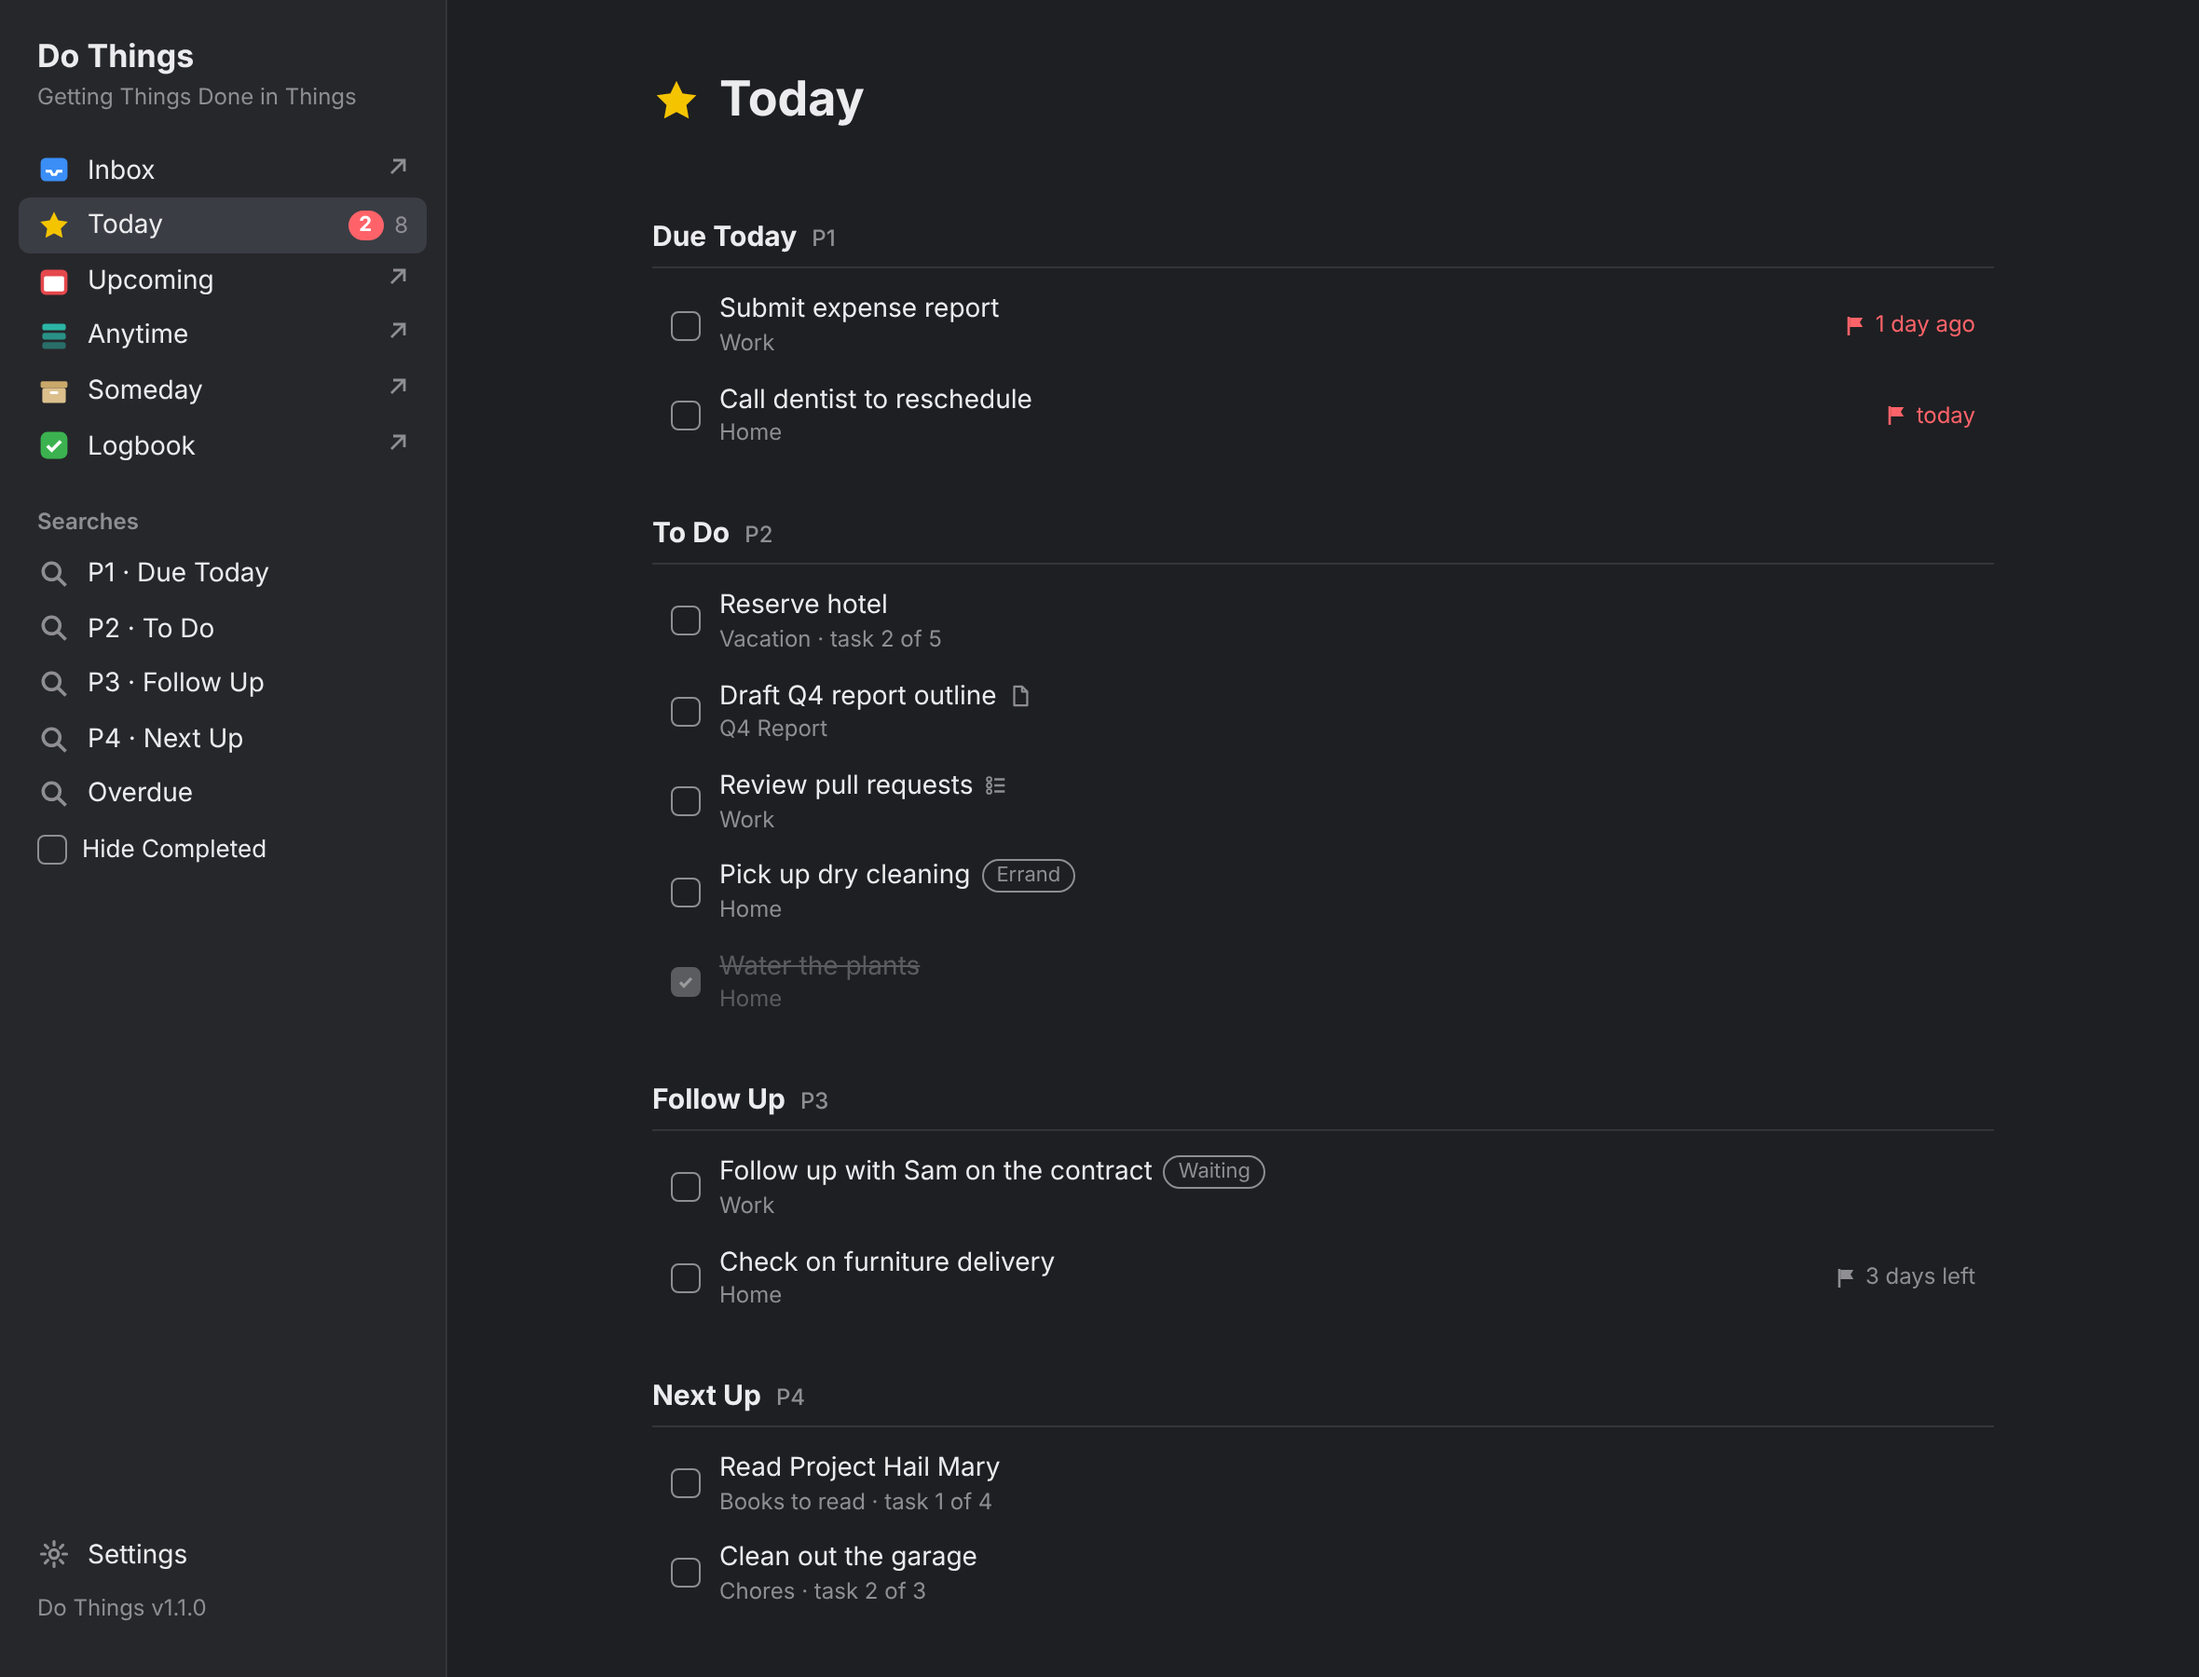
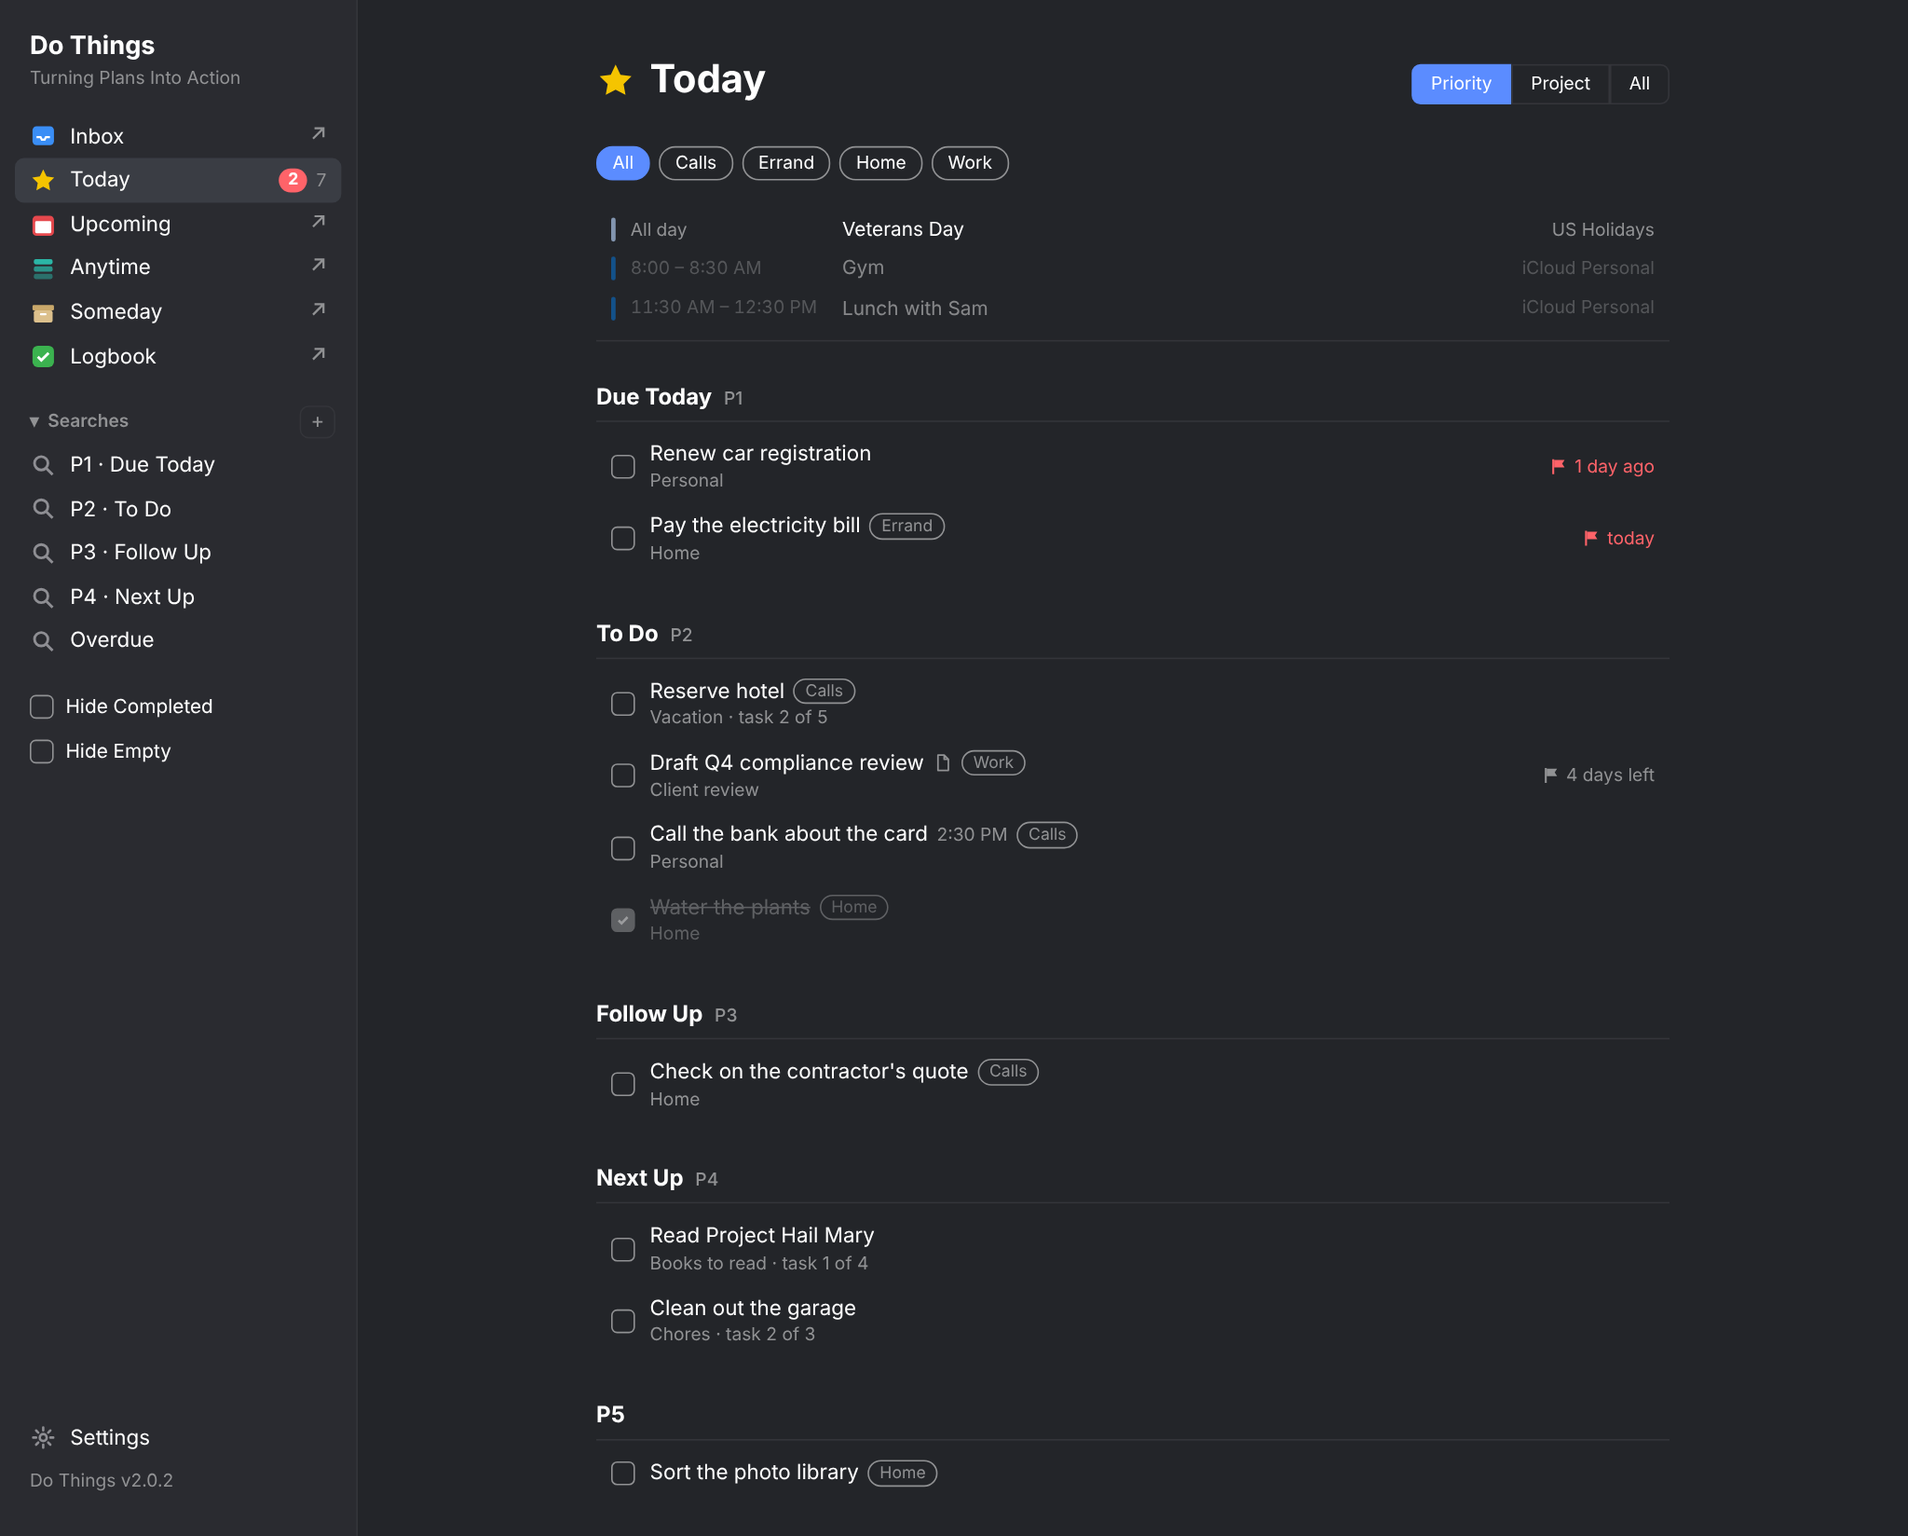
v2.0.2: README as an adjunct to Things, with every advantage up front
Version 2.0.2.

User-visible behavior: none in the app. The README now opens by stating
that Do Things is an adjunct to Things 3, not a replacement; "Advantages over
Things" moves up, right after "Why this exists", and covers every advantage
(priorities, the automatic priority rules, reprioritizing by drag, Today by
project, saved orders per view, sequential projects with Reset other tasks,
saved searches, due tasks always in Today, priority pills), notes what Do
Things matches rather than adds, and lists what stays in Things. "What it
does" is reorganized and current: the Priority / Project / All views, the
tag bar, Hide Completed and Hide Empty, rules, moves, sequential projects,
searches, calendar events, editing and display. New screenshots of Today by
priority (switch, tag bar, events, sequential and Next Up tasks) and by
project (screenshots/today-project.png). Limitations add the No project
drop limit and the undocumented sidebar order; section 5 mentions the
sidebar order printed by debug_things.py.

Safety impact: none (documentation, screenshots and version metadata only).

Verification: 324 unit tests pass on Python 3.9; py_compile, pyflakes and
git diff --check clean. Screenshots taken with headless Chrome from v2.0.2
running against a mock Things database with sample data and checked by eye.

diff --git a/index.html b/index.html
@@ -3,9 +3,10 @@
   Do Things page. Served by serve.py; all rules and data live on the server,
   this page only renders lists and sends actions.
 
-  Version: 2.0.1
+  Version: 2.0.2
 
   Change log:
+  - v2.0.2 (2026-11-10): Synchronized module version metadata.
   - v2.0.1 (2026-11-10): Project view headers show only the project or area
     name (the server sends no gray note for them).
   - v2.0.0 (2026-11-10): Today's Priority / Project / All switch beside the

diff --git a/view_check.py b/view_check.py
@@ -6,9 +6,10 @@ dragging in that view, lists the tags for the tag bar and filters by the
 chosen tag, says where a task appears in a view (the edit preview), and works
 out a group's full order after a drop seen through the tag filter.
 
-Version: 2.0.1
+Version: 2.0.2
 
 Change log:
+- v2.0.2 (2026-11-10): Synchronized module version metadata.
 - v2.0.1 (2026-11-10): Project view headers show only the project or area
   name (no gray "Project", "Area" or area name after it).
 - v2.0.0 (2026-11-10): New. Priority, Project and All views of Today and the

diff --git a/debug_things.py b/debug_things.py
@@ -9,9 +9,10 @@ and each Today task's reminder time as stored by Things and as Do Things reads i
 and Things' projects and areas in the sidebar order Today's Project view uses.
 It never writes to Things or to any Do Things file.
 
-Version: 2.0.1
+Version: 2.0.2
 
 Change log:
+- v2.0.2 (2026-11-10): Synchronized module version metadata.
 - v2.0.1 (2026-11-10): Synchronized module version metadata.
 - v2.0.0 (2026-11-10): Prints Things' projects and areas in sidebar order
   (Today's Project view group order), to compare with Things' sidebar.

diff --git a/priority_check.py b/priority_check.py
@@ -9,9 +9,10 @@ display. It also decides which priority a sequential project's tasks get
 starts next, and validates the user's settings (priority names, options,
 sequential-project tags and calendar events).
 
-Version: 2.0.1
+Version: 2.0.2
 
 Change log:
+- v2.0.2 (2026-11-10): Synchronized module version metadata.
 - v2.0.1 (2026-11-10): Synchronized module version metadata.
 - v2.0.0 (2026-11-10): Saved orders for Today's views: ALL_ORDER_KEY and
   PROJECT_ORDER_PREFIX keys, is_order_key; prune_order keeps them (dropping

diff --git a/debug_calendar.py b/debug_calendar.py
@@ -12,9 +12,10 @@ answer is a macOS setting, not a change to any calendar). Nothing is written
 to Calendar, Things or any Do Things file. --hide-titles replaces event
 titles with "(title hidden)", for sharing the output.
 
-Version: 2.0.1
+Version: 2.0.2
 
 Change log:
+- v2.0.2 (2026-11-10): Synchronized module version metadata.
 - v2.0.1 (2026-11-10): Synchronized module version metadata.
 - v2.0.0 (2026-11-10): Synchronized module version metadata.
 - v1.9.2 (2026-11-10): Synchronized module version metadata.

diff --git a/common.py b/common.py
@@ -6,9 +6,10 @@ the read-only calendar script (today's events from macOS Calendar), the local
 task-order file, the user's settings and saved-search files and the auth
 token.
 
-Version: 2.0.1
+Version: 2.0.2
 
 Change log:
+- v2.0.2 (2026-11-10): Synchronized module version metadata.
 - v2.0.1 (2026-11-10): Synchronized module version metadata.
 - v2.0.0 (2026-11-10): read_sidebar reads Things' open projects and its areas in
   sidebar order (Today's Project view); load_order keeps the All and Project

diff --git a/search_check.py b/search_check.py
@@ -8,9 +8,10 @@ the `Search` model, the default searches, validation of searches.json and of
 the builder's input, matching, result order, the summary line under a
 search's title, and new search ids.
 
-Version: 2.0.1
+Version: 2.0.2
 
 Change log:
+- v2.0.2 (2026-11-10): Synchronized module version metadata.
 - v2.0.1 (2026-11-10): Synchronized module version metadata.
 - v2.0.0 (2026-11-10): Synchronized module version metadata.
 - v1.9.2 (2026-11-10): Synchronized module version metadata.

diff --git a/test_serve.py b/test_serve.py
@@ -3,9 +3,10 @@
 Uses a mock Things database (schema from test_common.py). Things itself and
 the auth token are replaced with mocks, so nothing is sent to Things.
 
-Version: 2.0.1
+Version: 2.0.2
 
 Change log:
+- v2.0.2 (2026-11-10): Synchronized module version metadata.
 - v2.0.1 (2026-11-10): Project view groups have no gray note.
 - v2.0.0 (2026-11-10): Tests for Today's views, the tag filter and /api/drop
   (moves between priorities and projects, refusals, filtered reorders, the

diff --git a/test_common.py b/test_common.py
@@ -3,9 +3,10 @@
 Database tests run against a small SQLite file built with the parts of the
 Things schema that Do Things reads, so no real Things data is touched.
 
-Version: 2.0.1
+Version: 2.0.2
 
 Change log:
+- v2.0.2 (2026-11-10): Synchronized module version metadata.
 - v2.0.1 (2026-11-10): Synchronized module version metadata.
 - v2.0.0 (2026-11-10): Tests for read_sidebar (sidebar order, no TMArea.index)
   and the view orders in task_order.json; TMArea has an index column.

diff --git a/calendar_check.py b/calendar_check.py
@@ -7,9 +7,10 @@ the calendars the user chose, orders the events as Things does (all-day
 first, then by start time) and words their times. Nothing here writes to
 Calendar.
 
-Version: 2.0.1
+Version: 2.0.2
 
 Change log:
+- v2.0.2 (2026-11-10): Synchronized module version metadata.
 - v2.0.1 (2026-11-10): Synchronized module version metadata.
 - v2.0.0 (2026-11-10): Synchronized module version metadata.
 - v1.9.2 (2026-11-10): Synchronized module version metadata.

diff --git a/serve.py b/serve.py
@@ -10,9 +10,10 @@ auth token on first run.
 
 If the server is already running, starting it again just opens the page.
 
-Version: 2.0.1
+Version: 2.0.2
 
 Change log:
+- v2.0.2 (2026-11-10): Synchronized module version metadata.
 - v2.0.1 (2026-11-10): Synchronized module version metadata.
 - v2.0.0 (2026-11-10): Today's view (priority, project or all) and tag filter in
   /api/list (view, tag; the response carries view, tag, tags and each group's

diff --git a/test_debug_calendar.py b/test_debug_calendar.py
@@ -3,9 +3,10 @@
 The calendar script is replaced with mocks, so these run anywhere; the
 JavaScript for Automation itself can only run on a Mac.
 
-Version: 2.0.1
+Version: 2.0.2
 
 Change log:
+- v2.0.2 (2026-11-10): Synchronized module version metadata.
 - v2.0.1 (2026-11-10): Synchronized module version metadata.
 - v2.0.0 (2026-11-10): Synchronized module version metadata.
 - v1.9.2 (2026-11-10): Synchronized module version metadata.
